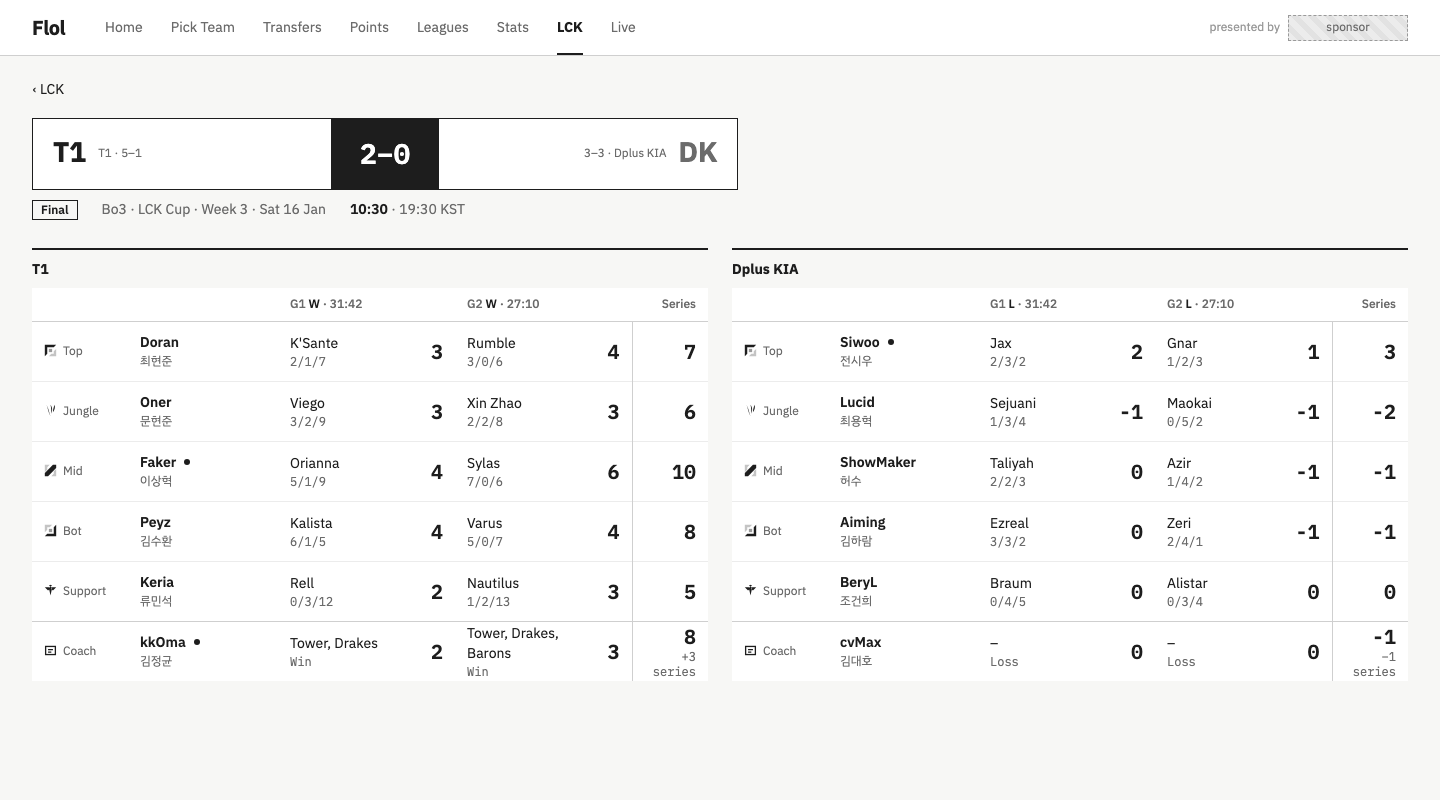
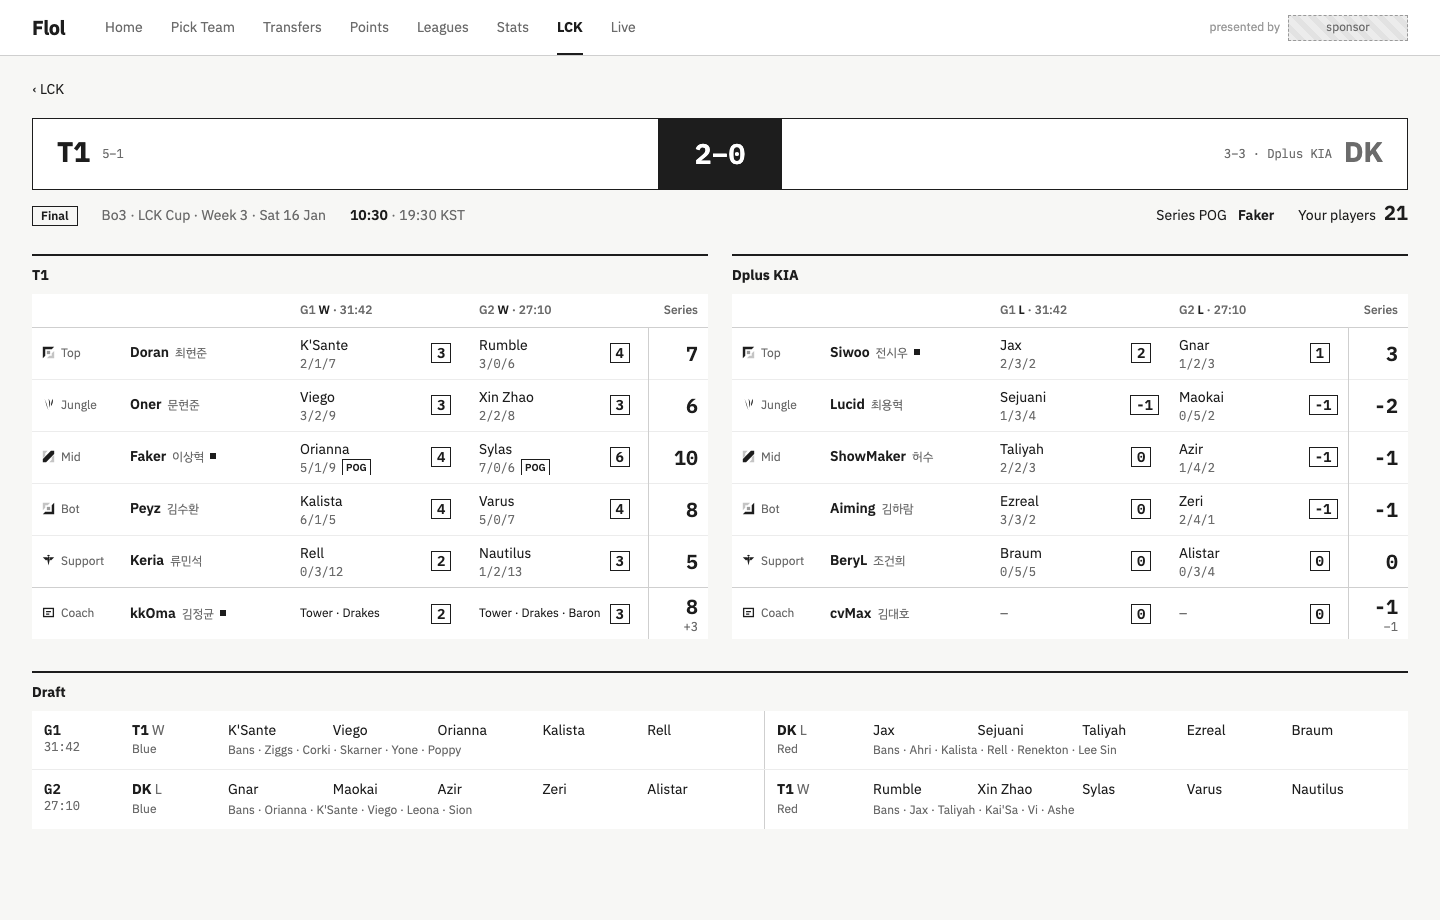
wip: Series round 2; panel fixes, POG, draft, your players, 2–1 view

diff --git a/docs/design/proposals/2026-11-16-series/series.html b/docs/design/proposals/2026-11-16-series/series.html
@@ -1,7 +1,7 @@
 <!doctype html><html lang="en"><head><meta charset="utf-8"><title>Series</title><style>@import url("https://fonts.googleapis.com/css2?family=IBM+Plex+Sans+KR:wght@400;500;600;700&family=IBM+Plex+Mono:wght@400;600&display=swap");
 :root { --ink: #1d1d1d; --mid: #6b6b6b; --soft: #9a9a9a; --line: #cfcfcf; --fill: #ececec; --bg: #f7f7f5; --paper: #fff; }
 * { box-sizing: border-box; margin: 0; padding: 0; }
-/* type scale: 28 page title · 20 figures and team codes · 14 body · 12 labels (the nav is shared) */
+/* type scale: 28 team codes in the scorebug · 20 series figures · 14 body · 12 labels (the nav is shared) */
 body { width: 1440px; background: var(--bg); color: var(--ink); font: 14px/1.4 "IBM Plex Sans KR", sans-serif; }
 .mono { font-family: "IBM Plex Mono", monospace; }
 nav.top { height: 56px; display: flex; align-items: center; gap: 28px; padding: 0 32px; background: var(--paper); border-bottom: 1px solid var(--line); }
@@ -14,29 +14,45 @@ nav.top .sp { flex: 1; }
 
 .page { padding: 24px 32px 48px; }
 .crumb { color: var(--mid); } .crumb a { color: var(--ink); }
-/* the scorebug, as Live's: each team in a white box, the series score between on black */
-.bug { display: flex; align-items: stretch; margin: 18px 0 10px; }
-.bug .tm { background: var(--paper); border: 1px solid var(--ink); width: 300px; display: flex; align-items: center; gap: 12px; padding: 0 20px; height: 72px; }
-.bug .tm.b { justify-content: flex-end; } .bug .tm b { font-size: 28px; } .bug .tm small { color: var(--mid); }
-.bug .sc { background: var(--ink); color: #fff; font: 600 28px "IBM Plex Mono", monospace; display: flex; align-items: center; padding: 0 28px; }
+/* the scorebug, as Live's, full width: each team in a white box, the series score between on black */
+.bug { display: grid; grid-template-columns: 1fr auto 1fr; margin: 18px 0 10px; height: 72px; }
+.bug .tm { background: var(--paper); border: 1px solid var(--ink); display: flex; align-items: center; gap: 12px; padding: 0 24px; }
+.bug .tm.b { justify-content: flex-end; } .bug .tm b { font-size: 28px; } .bug .tm small { color: var(--mid); font: 12px "IBM Plex Mono", monospace; }
+.bug .sc { background: var(--ink); color: #fff; font: 600 28px "IBM Plex Mono", monospace; display: flex; align-items: center; padding: 0 36px; }
 .bug .sc.v { font-size: 20px; }
 .bug .lo b { color: var(--mid); }
 .meta { display: flex; gap: 24px; align-items: baseline; color: var(--mid); } .meta b { color: var(--ink); font-weight: 600; } .meta .tag { border: 1px solid var(--ink); color: var(--ink); padding: 1px 8px; font-size: 12px; font-weight: 600; }
 .meta .sp { flex: 1; } .meta a { color: var(--ink); font-weight: 600; }
+.meta .fig { color: var(--ink); } .meta .fig b { font: 600 20px "IBM Plex Mono", monospace; margin-left: 8px; }
 .two { display: grid; grid-template-columns: 1fr 1fr; gap: 24px; margin-top: 28px; }
 h2 { font-size: 14px; font-weight: 700; border-top: 2px solid var(--ink); padding-top: 10px; margin-bottom: 8px; display: flex; gap: 10px; align-items: baseline; } h2 small { color: var(--mid); font-weight: 400; font-size: 12px; }
 table { width: 100%; border-collapse: collapse; background: var(--paper); table-layout: fixed; }
-th { font-size: 12px; font-weight: 500; color: var(--mid); text-align: left; padding: 8px 12px; border-bottom: 1px solid var(--line); } th.n { text-align: right; } th b { color: var(--ink); font-weight: 600; }
-td { padding: 0 12px; height: 60px; border-top: 1px solid var(--fill); vertical-align: middle; }
+th { font-size: 12px; font-weight: 500; color: var(--mid); text-align: left; padding: 8px 10px; border-bottom: 1px solid var(--line); white-space: nowrap; } th.n { text-align: right; } th b { color: var(--ink); font-weight: 600; }
+td { padding: 0 10px; height: 52px; border-top: 1px solid var(--fill); vertical-align: middle; }
 td.rl { color: var(--mid); font-size: 12px; } td.rl svg { width: 13px; height: 13px; vertical-align: -2px; margin-right: 6px; }
-td.pl b { font-weight: 600; } td.pl small { display: block; color: var(--mid); font-size: 12px; }
-i.me { display: inline-block; width: 6px; height: 6px; border-radius: 50%; background: var(--ink); margin: 0 0 2px 8px; }
-.gm { display: flex; justify-content: space-between; align-items: center; }
-.gm span { font-size: 14px; } .gm small { display: block; color: var(--mid); font: 12px "IBM Plex Mono", monospace; }
-.gm b { font: 600 20px "IBM Plex Mono", monospace; min-width: 32px; text-align: right; }
+td.pl { white-space: nowrap; } td.pl b { font-weight: 600; } td.pl small { color: var(--mid); font-size: 12px; margin-left: 6px; }
+/* your players: a small square (Points keeps ● for live) */
+i.me { display: inline-block; width: 6px; height: 6px; background: var(--ink); margin: 0 0 2px 6px; }
+.gm { display: flex; justify-content: space-between; align-items: center; gap: 6px; }
+.gm > span:first-child { font-size: 14px; white-space: nowrap; overflow: hidden; text-overflow: ellipsis; min-width: 0; } .gm small { display: block; color: var(--mid); font: 12px "IBM Plex Mono", monospace; }
+.gm .p { flex: none; font: 600 14px "IBM Plex Mono", monospace; min-width: 28px; text-align: center; display: flex; align-items: center; gap: 6px; }
+.gm .p .box { border: 1.5px solid var(--ink); padding: 0 5px; }
+td.drop .gm, td.drop .gm small { color: var(--soft); } td.drop .gm .p { font-weight: 400; }
+.pog { font: 600 10px "IBM Plex Sans KR"; color: var(--ink); border: 1px solid var(--ink); padding: 0 3px; margin-left: 6px; vertical-align: 1px; }
 td.tot { text-align: right; font: 600 20px "IBM Plex Mono", monospace; border-left: 1px solid var(--line); }
+td.tot small { display: block; font: 12px "IBM Plex Mono", monospace; color: var(--mid); }
 tr.co td { border-top: 1px solid var(--line); }
-.empty { color: var(--soft); }
+.gm > span:first-child .co-l { display: block; white-space: normal; font-size: 12px; line-height: 1.3; }
+.none { color: var(--mid); }
+/* the draft: one row per game, blue side left, red side right */
+.draft { margin-top: 32px; }
+.dr { display: grid; grid-template-columns: 88px 1fr 1fr; background: var(--paper); border-top: 1px solid var(--fill); }
+.dr:first-of-type { border-top: 0; }
+.dr .g { padding: 10px 12px; font: 600 14px "IBM Plex Mono", monospace; } .dr .g small { display: block; font: 12px "IBM Plex Mono", monospace; color: var(--mid); }
+.side { padding: 10px 12px; display: grid; grid-template-columns: 96px 1fr; row-gap: 2px; }
+.side.red { border-left: 1px solid var(--line); }
+.side .who { grid-row: span 2; font-weight: 700; } .side .who small { display: block; font: 400 12px "IBM Plex Sans KR"; color: var(--mid); }
+.side .pk { display: grid; grid-template-columns: repeat(5, 1fr); } .side .bn { color: var(--mid); font-size: 12px; }
 </style></head><body>
 <svg width="0" height="0" style="position:absolute"><defs>
   <symbol id="i-top" viewBox="0 0 16 16"><path d="M1 1h14l-3 3H4v8l-3 3z" fill="#1d1d1d"/><rect x="6" y="6" width="4" height="4" fill="#9a9a9a"/><path d="M15 6v9H6l3-3h3V9z" fill="#c4c4c4"/></symbol>
@@ -52,29 +68,52 @@ tr.co td { border-top: 1px solid var(--line); }
   <div class="bug" id="bug"></div>
   <div class="meta" id="meta"></div>
   <div class="two" id="two"></div>
+  <div id="draft"></div>
 </div>
 <script>
 const $ = (id) => document.getElementById(id);
 const V = new URLSearchParams(location.search).get("v") || "final";
-// T1 v DK, LCK Cup Week 3, Saturday 16 Jan 2027, Bo3; T1 won 2–0 (the LCK hub's Results). Final at the hub's moment (Week 4,
-// Tuesday 22:00 London). Faker, Siwoo and kkOma match the Points picture: Faker G1 Orianna 5/1/9 for 4, Siwoo G1 2, kkOma G1 2.
-const GAMES = [["T1", "31:42"], ["T1", "27:10"]];
 // Points from spec/05: kills +1 per 2 (top, support) or per 3 (jungle, mid, bot), at most +3; assists +1 per 5, at most +3;
 // deaths −1 per 3, per 4 for supports, at most −3; +1 gold lead at 15; +1 a solo kill; +1 first blood; +1 deathless;
 // quadra +1, penta +2; +1 a steal. Per game: [champion, K, D, A, gold lead, solo kills, first blood, multikill, steals]
-const T = {
-  T1: { name: "T1", rec: "5–1", coach: ["kkOma", "김정균", [[1, 1, 0, 0, 0], [1, 1, 1, 0, 0]]], mine: ["Faker", "kkOma"],
-    p: [["top", "Doran", "최현준", [["K'Sante", 2, 1, 7, 1, 0, 0, 0, 0], ["Rumble", 3, 0, 6, 1, 0, 0, 0, 0]]],
-        ["jng", "Oner", "문현준", [["Viego", 3, 2, 9, 1, 0, 0, 0, 0], ["Xin Zhao", 2, 2, 8, 1, 0, 0, 0, 1]]],
-        ["mid", "Faker", "이상혁", [["Orianna", 5, 1, 9, 1, 0, 1, 0, 0], ["Sylas", 7, 0, 6, 1, 1, 0, 0, 0]]],
-        ["bot", "Peyz", "김수환", [["Kalista", 6, 1, 5, 1, 0, 0, 0, 0], ["Varus", 5, 0, 7, 1, 0, 0, 0, 0]]],
-        ["sup", "Keria", "류민석", [["Rell", 0, 3, 12, 0, 0, 0, 0, 0], ["Nautilus", 1, 2, 13, 1, 0, 0, 0, 0]]]] },
-  DK: { name: "Dplus KIA", rec: "3–3", coach: ["cvMax", "김대호", [[0, 0, 0, 0, 0], [0, 0, 0, 0, 0]]], mine: ["Siwoo"],
-    p: [["top", "Siwoo", "전시우", [["Jax", 2, 3, 2, 1, 1, 0, 0, 0], ["Gnar", 1, 2, 3, 1, 0, 0, 0, 0]]],
-        ["jng", "Lucid", "최용혁", [["Sejuani", 1, 3, 4, 0, 0, 0, 0, 0], ["Maokai", 0, 5, 2, 0, 0, 0, 0, 0]]],
-        ["mid", "ShowMaker", "허수", [["Taliyah", 2, 2, 3, 0, 0, 0, 0, 0], ["Azir", 1, 4, 2, 0, 0, 0, 0, 0]]],
-        ["bot", "Aiming", "김하람", [["Ezreal", 3, 3, 2, 0, 0, 0, 0, 0], ["Zeri", 2, 4, 1, 0, 0, 0, 0, 0]]],
-        ["sup", "BeryL", "조건희", [["Braum", 0, 4, 5, 0, 0, 0, 0, 0], ["Alistar", 0, 3, 4, 0, 0, 0, 0, 0]]]] },
+// Coach per game: [first tower, most drakes, baron, elder, quick win]; +3 a series win, −1 a loss.
+// Opened at the hub's moment (Week 4, Tuesday 22:00 London). Your players are Baron Steal FC's, from the Points picture.
+const MINE = ["Zeus", "Canyon", "Faker", "Ruler", "Delight", "Siwoo", "kkOma"];
+const S = {
+  // T1 v DK, Week 3, Sat 16 Jan, T1 2–0 (the hub's Results). Faker G1 Orianna 5/1/9 for 4, Siwoo G1 2, kkOma G1 2 (Points).
+  final: { a: "T1", b: "DK", time: ["10:30", "19:30"],
+    games: [{ w: "T1", len: "31:42", blue: "T1", pog: "Faker" }, { w: "T1", len: "27:10", blue: "DK", pog: "Faker" }], pog: "Faker",
+    T1: { name: "T1", rec: "5–1", coach: ["kkOma", "김정균", [[1, 1, 0, 0, 0], [1, 1, 1, 0, 0]]],
+      p: [["top", "Doran", "최현준", [["K'Sante", 2, 1, 7, 1, 0, 0, 0, 0], ["Rumble", 3, 0, 6, 1, 0, 0, 0, 0]]],
+          ["jng", "Oner", "문현준", [["Viego", 3, 2, 9, 1, 0, 0, 0, 0], ["Xin Zhao", 2, 2, 8, 1, 0, 0, 0, 1]]],
+          ["mid", "Faker", "이상혁", [["Orianna", 5, 1, 9, 1, 0, 1, 0, 0], ["Sylas", 7, 0, 6, 1, 1, 0, 0, 0]]],
+          ["bot", "Peyz", "김수환", [["Kalista", 6, 1, 5, 1, 0, 0, 0, 0], ["Varus", 5, 0, 7, 1, 0, 0, 0, 0]]],
+          ["sup", "Keria", "류민석", [["Rell", 0, 3, 12, 0, 0, 0, 0, 0], ["Nautilus", 1, 2, 13, 1, 0, 0, 0, 0]]]],
+      bans: [["Ziggs", "Corki", "Skarner", "Yone", "Poppy"], ["Jax", "Taliyah", "Kai'Sa", "Vi", "Ashe"]] },
+    DK: { name: "Dplus KIA", rec: "3–3", coach: ["cvMax", "김대호", [[0, 0, 0, 0, 0], [0, 0, 0, 0, 0]]],
+      p: [["top", "Siwoo", "전시우", [["Jax", 2, 3, 2, 1, 1, 0, 0, 0], ["Gnar", 1, 2, 3, 1, 0, 0, 0, 0]]],
+          ["jng", "Lucid", "최용혁", [["Sejuani", 1, 3, 4, 0, 0, 0, 0, 0], ["Maokai", 0, 5, 2, 0, 0, 0, 0, 0]]],
+          ["mid", "ShowMaker", "허수", [["Taliyah", 2, 2, 3, 0, 0, 0, 0, 0], ["Azir", 1, 4, 2, 0, 0, 0, 0, 0]]],
+          ["bot", "Aiming", "김하람", [["Ezreal", 3, 3, 2, 0, 0, 0, 0, 0], ["Zeri", 2, 4, 1, 0, 0, 0, 0, 0]]],
+          ["sup", "BeryL", "조건희", [["Braum", 0, 5, 5, 0, 0, 0, 0, 0], ["Alistar", 0, 3, 4, 0, 0, 0, 0, 0]]]],
+      bans: [["Ahri", "Kalista", "Rell", "Renekton", "Lee Sin"], ["Orianna", "K'Sante", "Viego", "Leona", "Sion"]] } },
+  // GEN v HLE, Week 3, Sat 16 Jan, GEN 2–1 (the hub's Results). Zeus 2 5 0, Canyon 2 3 4, Ruler 3 1 4, Delight 1 2 2 (Points).
+  f21: { a: "GEN", b: "HLE", time: ["08:00", "17:00"],
+    games: [{ w: "GEN", len: "29:05", blue: "GEN", pog: "Chovy" }, { w: "HLE", len: "34:48", blue: "HLE", pog: "Zeus" }, { w: "GEN", len: "26:31", blue: "GEN", pog: "Canyon" }], pog: "Canyon",
+    GEN: { name: "Gen.G", rec: "5–1", coach: ["Ryu", "류상욱", [[1, 1, 1, 0, 0], [0, 0, 0, 0, 0], [1, 1, 1, 0, 0]]],
+      p: [["top", "Kiin", "김기인", [["Rumble", 3, 1, 5, 1, 0, 0, 0, 0], ["Jax", 0, 4, 2, 0, 0, 0, 0, 0], ["K'Sante", 2, 2, 7, 0, 0, 0, 0, 0]]],
+          ["jng", "Canyon", "김건부", [["Vi", 2, 2, 9, 1, 0, 0, 0, 0], ["Lee Sin", 3, 3, 3, 1, 0, 1, 0, 1], ["Xin Zhao", 4, 1, 10, 1, 0, 0, 0, 0]]],
+          ["mid", "Chovy", "정지훈", [["Azir", 4, 0, 6, 1, 0, 0, 0, 0], ["Orianna", 1, 4, 3, 0, 0, 0, 0, 0], ["Sylas", 7, 1, 5, 1, 0, 0, 0, 0]]],
+          ["bot", "Ruler", "박재혁", [["Kai'Sa", 6, 1, 4, 1, 0, 0, 0, 0], ["Jinx", 3, 2, 2, 0, 0, 0, 0, 0], ["Kalista", 7, 1, 5, 1, 0, 0, 0, 0]]],
+          ["sup", "Duro", "주민규", [["Rell", 1, 2, 12, 0, 0, 0, 0, 0], ["Braum", 0, 5, 5, 0, 0, 0, 0, 0], ["Rakan", 1, 2, 15, 0, 0, 0, 0, 0]]]],
+      bans: [["Ahri", "Varus", "Poppy", "Skarner", "Ziggs"], ["Corki", "Viego", "Gnar", "Ezreal", "Leona"], ["K'Sante", "Ahri", "Varus", "Viego", "Alistar"]] },
+    HLE: { name: "Hanwha Life", rec: "4–2", coach: ["Homme", "윤성영", [[0, 0, 0, 0, 0], [1, 1, 1, 0, 0], [0, 1, 0, 0, 0]]],
+      p: [["top", "Zeus", "최우제", [["Gnar", 2, 3, 2, 1, 1, 0, 0, 0], ["K'Sante", 4, 1, 6, 1, 1, 0, 0, 0], ["Renekton", 2, 4, 2, 0, 0, 0, 0, 0]]],
+          ["jng", "Kanavi", "서진혁", [["Xin Zhao", 1, 4, 3, 0, 0, 0, 0, 0], ["Viego", 4, 2, 8, 1, 0, 0, 0, 0], ["Maokai", 1, 6, 3, 0, 0, 0, 0, 0]]],
+          ["mid", "Zeka", "김건우", [["Taliyah", 2, 3, 2, 0, 0, 0, 0, 0], ["Ahri", 5, 1, 7, 1, 0, 0, 0, 0], ["Azir", 2, 4, 3, 0, 0, 0, 0, 0]]],
+          ["bot", "Gumayusi", "이민형", [["Ezreal", 1, 3, 3, 0, 0, 0, 0, 0], ["Varus", 5, 1, 6, 1, 0, 0, 0, 0], ["Zeri", 2, 4, 2, 0, 0, 0, 0, 0]]],
+          ["sup", "Delight", "유환중", [["Nautilus", 0, 3, 5, 0, 0, 0, 0, 0], ["Alistar", 0, 2, 14, 0, 0, 0, 0, 0], ["Leona", 0, 3, 10, 0, 0, 0, 0, 0]]]],
+      bans: [["Kalista", "Sylas", "Rakan", "Corki", "Jax"], ["Kai'Sa", "Azir", "Rell", "Sejuani", "Rumble"], ["Lee Sin", "Jinx", "Rell", "Taliyah", "Gnar"]] } },
 };
 const RH = { top: "Top", jng: "Jungle", mid: "Mid", bot: "Bot", sup: "Support" };
 const cap = (x) => Math.max(-3, Math.min(3, x));
@@ -82,35 +121,51 @@ function pts(role, [, k, d, a, gold, solo, fb, multi, steal]) {
   const kd = role === "top" || role === "sup" ? 2 : 3;
   return cap(Math.floor(k / kd)) + cap(Math.floor(a / 5)) - cap(Math.floor(d / (role === "sup" ? 4 : 3))) + gold + solo + fb + (d === 0 ? 1 : 0) + multi + steal;
 }
-const coachPts = (g) => g.reduce((s, x) => s + x, 0);
-const best2 = (xs) => [...xs].sort((a, b) => b - a).slice(0, 2).reduce((s, x) => s + x, 0);
-const team = (code, other) => {
-  const t = T[code], won = GAMES.map(([w]) => w === code);
-  const head = `<colgroup><col style="width:96px"><col style="width:150px"><col><col><col style="width:76px"></colgroup>
-    <tr><th></th><th></th>${GAMES.map(([w, len], i) => `<th>G${i + 1} <b>${w === code ? "W" : "L"}</b> · ${len}</th>`).join("")}<th class="n">Series</th></tr>`;
-  const rows = t.p.map(([rl, n, k, gs]) => { const ps = gs.map((g) => pts(rl, g));
-    return `<tr><td class="rl"><svg><use href="#i-${rl}"/></svg>${RH[rl]}</td><td class="pl"><b>${n}</b>${t.mine.includes(n) ? '<i class="me"></i>' : ""}<small>${k}</small></td>
-      ${gs.map((g, i) => `<td><div class="gm"><span>${g[0]}<small>${g[1]}/${g[2]}/${g[3]}</small></span><b>${ps[i]}</b></div></td>`).join("")}<td class="tot">${best2(ps)}</td></tr>`; }).join("");
-  const [cn, ck, cg] = t.coach, cp = cg.map(coachPts), sw = won.filter(Boolean).length === 2 ? 3 : -1;
-  const L = ["Tower", "Drakes", "Barons", "Elders", "Quick"];
-  const coach = `<tr class="co"><td class="rl"><svg><use href="#i-coach"/></svg>Coach</td><td class="pl"><b>${cn}</b>${t.mine.includes(cn) ? '<i class="me"></i>' : ""}<small>${ck}</small></td>
-    ${cg.map((g, i) => `<td><div class="gm"><span>${g.map((x, j) => x ? L[j] : "").filter(Boolean).join(", ") || "–"}<small>${won[i] ? "Win" : "Loss"}</small></span><b>${cp[i]}</b></div></td>`).join("")}
-    <td class="tot">${best2(cp) + sw}<small style="display:block;font:12px 'IBM Plex Mono';color:var(--mid)">${sw > 0 ? "+3" : "−1"} series</small></td></tr>`;
-  return `<section><h2>${t.name}</h2><table>${head}${rows}${coach}</table></section>`;
-};
+const sum = (xs) => xs.reduce((s, x) => s + x, 0);
+// best 2 games: the indexes that count (the earlier game wins a tie, as on Points)
+const best2 = (xs) => xs.map((x, i) => [x, i]).sort((a, b) => b[0] - a[0] || a[1] - b[1]).slice(0, 2).map((x) => x[1]);
+const me = (n) => (MINE.includes(n) ? '<i class="me"></i>' : "");
+const pog = (s, i, n) => (s.games[i].pog === n ? '<span class="pog">POG</span>' : "");
+const cell = (s, i, n, label, sub, p, counted) => `<td class="${counted ? "" : "drop"}"><div class="gm"><span>${label}<small>${sub}${pog(s, i, n)}</small></span><span class="p">${counted ? `<span class="box">${p}</span>` : p}</span></div></td>`;
+const L = ["Tower", "Drakes", "Baron", "Elder", "Quick"];
+function team(s, code) {
+  const t = s[code], won = s.games.map((g) => g.w === code), n = s.games.length;
+  const head = `<colgroup><col style="width:88px"><col style="width:${n > 2 ? 150 : 170}px">${s.games.map(() => "<col>").join("")}<col style="width:60px"></colgroup>
+    <tr><th></th><th></th>${s.games.map((g, i) => `<th>G${i + 1} <b>${g.w === code ? "W" : "L"}</b> · ${g.len}</th>`).join("")}<th class="n">Series</th></tr>`;
+  const rows = t.p.map(([rl, nm, k, gs]) => { const ps = gs.map((g) => pts(rl, g)), c = best2(ps);
+    return `<tr><td class="rl"><svg><use href="#i-${rl}"/></svg>${RH[rl]}</td><td class="pl"><b>${nm}</b><small>${k}</small>${me(nm)}</td>
+      ${gs.map((g, i) => cell(s, i, nm, g[0], `${g[1]}/${g[2]}/${g[3]}`, ps[i], c.includes(i))).join("")}<td class="tot">${sum(c.map((i) => ps[i]))}</td></tr>`; }).join("");
+  const [cn, ck, cg] = t.coach, cp = cg.map(sum), c = best2(cp), sw = won.filter(Boolean).length === 2 ? 3 : -1;
+  const coach = `<tr class="co"><td class="rl"><svg><use href="#i-coach"/></svg>Coach</td><td class="pl"><b>${cn}</b><small>${ck}</small>${me(cn)}</td>
+    ${cg.map((g, i) => cell(s, i, cn, `<span class="${g.some(Boolean) ? "co-l" : "none"}">${g.map((x, j) => (x ? L[j] : "")).filter(Boolean).join(" · ") || "–"}</span>`, "", cp[i], c.includes(i))).join("")}
+    <td class="tot">${sum(c.map((i) => cp[i])) + sw}<small>${sw > 0 ? "+3" : "−1"}</small></td></tr>`;
+  return { html: `<section><h2>${t.name}</h2><table>${head}${rows}${coach}</table></section>`,
+    mine: sum(t.p.filter(([, nm]) => MINE.includes(nm)).map(([rl, , , gs]) => { const ps = gs.map((g) => pts(rl, g)); return sum(best2(ps).map((i) => ps[i])); }))
+      + (MINE.includes(cn) ? sum(c.map((i) => cp[i])) + sw : 0) };
+}
+function draft(s) {
+  const side = (code, i, cls) => { const t = s[code], won = s.games[i].w === code;
+    return `<div class="side ${cls}"><div class="who">${code} <span style="font-weight:400;color:var(--mid)">${won ? "W" : "L"}</span><small>${cls === "blue" ? "Blue" : "Red"}</small></div>
+      <div class="pk">${t.p.map((p) => `<span>${p[3][i][0]}</span>`).join("")}</div><div class="bn">Bans · ${t.bans[i].join(" · ")}</div></div>`; };
+  return `<section class="draft"><h2>Draft</h2>${s.games.map((g, i) => { const red = g.blue === s.a ? s.b : s.a;
+    return `<div class="dr"><div class="g">G${i + 1}<small>${g.len}</small></div>${side(g.blue, i, "blue")}${side(red, i, "red")}</div>`; }).join("")}</section>`;
+}
 // Before it starts: Week 4's HLE v DK, Wednesday 20 Jan, opened at the hub's moment.
 const NEXT = { HLE: [["Zeus", "최우제"], ["Kanavi", "서진혁"], ["Zeka", "김건우"], ["Gumayusi", "이민형"], ["Delight", "유환중"], ["Homme", "윤성영"]],
   DK: [["Siwoo", "전시우"], ["Lucid", "최용혁"], ["ShowMaker", "허수"], ["Aiming", "김하람"], ["BeryL", "조건희"], ["cvMax", "김대호"]] };
-const MINE = ["Zeus", "Delight", "Siwoo"];
 if (V === "next") {
   $("bug").innerHTML = `<div class="tm"><b>HLE</b><small>Hanwha Life · 4–2</small></div><div class="sc v">v</div><div class="tm b"><small>3–3 · Dplus KIA</small><b>DK</b></div>`;
   $("meta").innerHTML = `<span class="tag">Bo3</span><span>LCK Cup · Week 4 · Wed 20 Jan</span><span><b>08:00</b> · 17:00 KST</span><a>Watch ›</a>`;
   const ICO = ["top", "jng", "mid", "bot", "sup", "coach"];
   $("two").innerHTML = Object.entries(NEXT).map(([c, ps]) => `<section><h2>${c}<small>${c === "HLE" ? "Hanwha Life" : "Dplus KIA"}</small></h2><table>
-    ${ps.map(([n, k], i) => `<tr class="${i === 5 ? "co" : ""}"><td class="rl" style="width:110px"><svg><use href="#i-${ICO[i]}"/></svg>${i === 5 ? "Coach" : RH[ICO[i]]}</td><td class="pl" style="height:48px"><b>${n}</b>${MINE.includes(n) ? '<i class="me"></i>' : ""} <small style="display:inline;margin-left:6px">${k}</small></td></tr>`).join("")}</table></section>`).join("");
+    ${ps.map(([n, k], i) => `<tr class="${i === 5 ? "co" : ""}"><td class="rl" style="width:110px;height:48px"><svg><use href="#i-${ICO[i]}"/></svg>${i === 5 ? "Coach" : RH[ICO[i]]}</td><td class="pl" style="height:48px"><b>${n}</b><small>${k}</small>${me(n)}</td></tr>`).join("")}</table></section>`).join("");
 } else {
-  $("bug").innerHTML = `<div class="tm"><b>T1</b><small>T1 · 5–1</small></div><div class="sc">2–0</div><div class="tm b lo"><small>3–3 · Dplus KIA</small><b>DK</b></div>`;
-  $("meta").innerHTML = `<span class="tag">Final</span><span>Bo3 · LCK Cup · Week 3 · Sat 16 Jan</span><span><b>10:30</b> · 19:30 KST</span>`;
-  $("two").innerHTML = team("T1") + team("DK");
+  const s = S[V], A = team(s, s.a), B = team(s, s.b), wa = s.games.filter((g) => g.w === s.a).length, wb = s.games.length - wa;
+  const rec = (c) => (s[c].name === c ? s[c].rec : `${s[c].name} · ${s[c].rec}`);
+  $("bug").innerHTML = `<div class="tm ${wa < wb ? "lo" : ""}"><b>${s.a}</b><small>${rec(s.a)}</small></div><div class="sc">${wa}–${wb}</div><div class="tm b ${wb < wa ? "lo" : ""}"><small>${s[s.b].rec}${s[s.b].name === s.b ? "" : ` · ${s[s.b].name}`}</small><b>${s.b}</b></div>`;
+  $("meta").innerHTML = `<span class="tag">Final</span><span>Bo3 · LCK Cup · Week 3 · Sat 16 Jan</span><span><b>${s.time[0]}</b> · ${s.time[1]} KST</span><span class="sp"></span>
+    <span class="fig">Series POG <b style="font:600 14px 'IBM Plex Sans KR'">${s.pog}</b></span><span class="fig">Your players<b>${A.mine + B.mine}</b></span>`;
+  $("two").innerHTML = A.html + B.html;
+  $("draft").innerHTML = draft(s);
 }
 </script></body></html>
